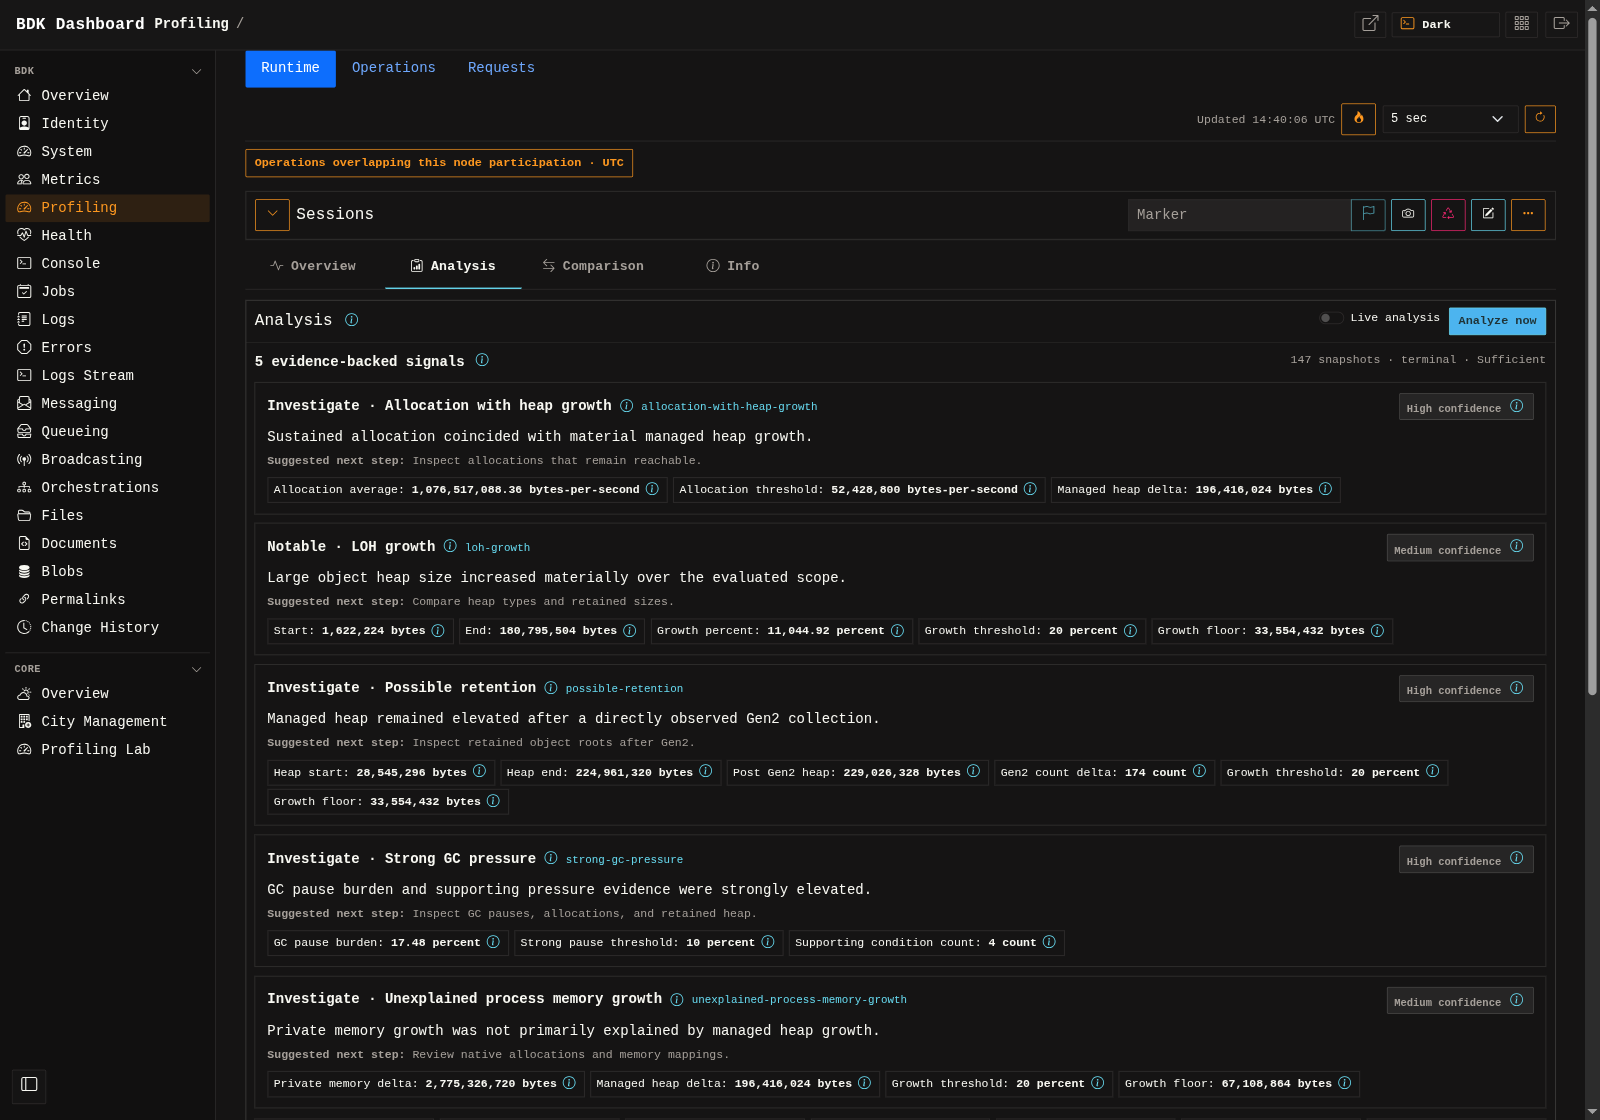
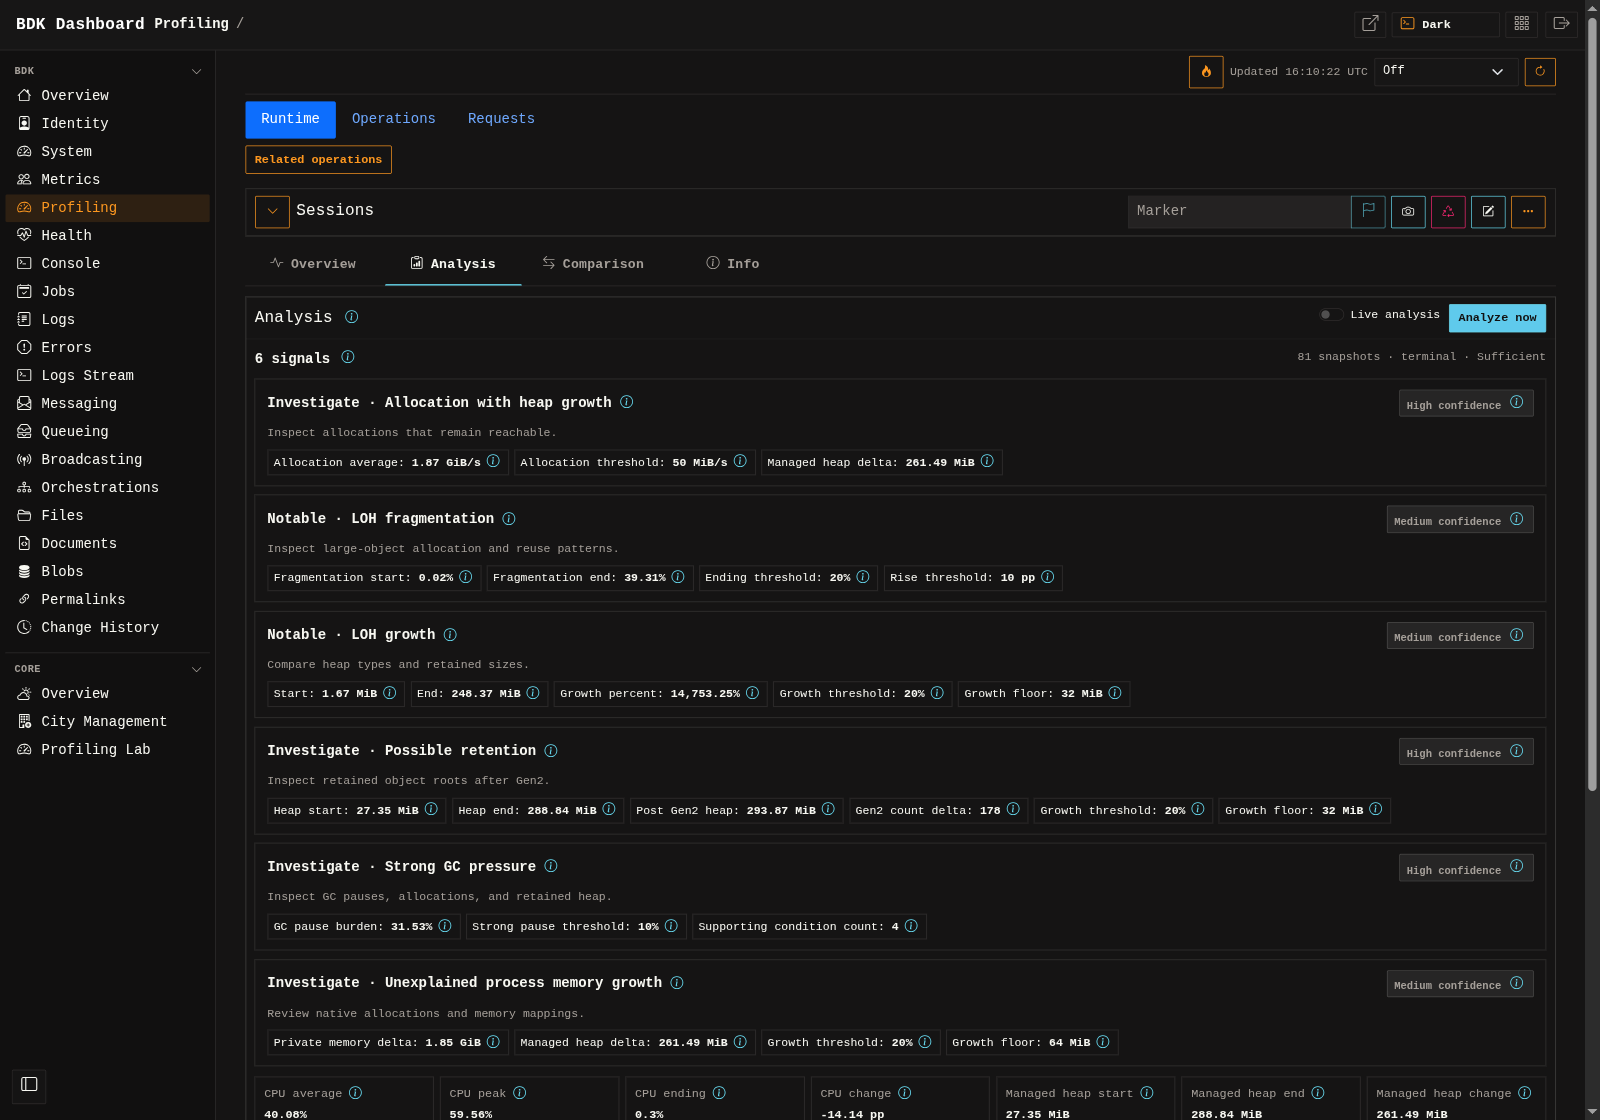
feat(profiling): refine dashboard controls
Align refresh controls with the dashboard toolbar and add UTC date/time
pickers, linked and copyable correlation IDs, and compact segment timing
columns with accessible help. Hide process IDs and reduce repeated text.

Arrange runtime overlays in responsive charts, format analysis values in
readable units, and regenerate six dashboard screenshots and the guide.

Validated the build, 158 profiling/dashboard tests, browser interaction
and responsive checks, six image links, and the strict MkDocs build.

diff --git a/tests/Presentation.UnitTests/Web/Profiling/OperationProfilingDashboardTests.cs b/tests/Presentation.UnitTests/Web/Profiling/OperationProfilingDashboardTests.cs
@@ -41,12 +41,12 @@ public sealed class OperationProfilingDashboardTests
         var content = await client.GetStringAsync("/admin/profiling/requests/content" + parameters);
         var groups = await client.GetFromJsonAsync<OperationProfilingGroupPage>("/admin/profiling/operations/api/groups?kind=HttpRequest&view=" + mode);
 
-        page.ShouldContain("2 retained matching executions");
-        content.ShouldContain("2 retained matching executions");
+        page.ShouldContain("title=\"Retained executions matching this group\">2</span>");
+        content.ShouldContain("title=\"Retained executions matching this group\">2</span>");
         groups.TotalOperationCount.ShouldBe(2);
         groups.TotalGroupCount.ShouldBe(1);
         groups.Groups.Single().Count.ShouldBe(2);
-        content.ShouldContain("Exclusive wall-time share");
+        content.ShouldContain("Percent of operation duration");
         content.ShouldContain("UTC");
         page.ShouldContain("/admin/profiling/operations");
         (await client.GetAsync("/admin/profiling/requests/" + service)).StatusCode.ShouldBe(HttpStatusCode.NotFound);
@@ -151,7 +151,8 @@ public sealed class OperationProfilingDashboardTests
     public async Task Detail_WithNestedSegments_EncodesMetadataAndShowsAggregates()
     {
         await using var app = await CreateAsync();
-        var id = Capture(app, "catalog", OperationProfilingKind.Service);
+        const string correlationId = "lookup&<script>\"quoted\"</script>";
+        var id = Capture(app, "catalog", OperationProfilingKind.Service, correlationId);
         await app.Services.GetRequiredService<OperationProfilingWriterService>().TickAsync();
         var html = await app.GetTestClient().GetStringAsync("/admin/profiling/operations/" + id);
         html.ShouldContain("&lt;script&gt;");
@@ -160,6 +161,10 @@ public sealed class OperationProfilingDashboardTests
         html.ShouldContain("Compute");
         html.ShouldContain("invocations");
         html.ShouldContain("UTC");
+        html.ShouldContain("/admin/logentries?correlationId=" + Uri.EscapeDataString(correlationId));
+        html.ShouldContain("data-profiling-copy=\"lookup&amp;&lt;script&gt;&quot;quoted&quot;&lt;/script&gt;\"");
+        html.ShouldNotContain(correlationId);
+        html.ShouldNotContain("data-runtime-overlay=");
     }
 
     /// <summary>One occupied query budget produces the same Busy status in both render paths and JSON.</summary>
@@ -208,10 +213,10 @@ public sealed class OperationProfilingDashboardTests
         comparison.Candidate.Count.ShouldBe(1);
     }
 
-    private static Guid Capture(WebApplication app, string key, OperationProfilingKind kind)
+    private static Guid Capture(WebApplication app, string key, OperationProfilingKind kind, string correlationId = null)
     {
         var profiler = app.Services.GetRequiredService<IOperationProfiler>();
-        using var operation = profiler.BeginOperation(key, kind);
+        using var operation = profiler.BeginOperation(new OperationProfilingStartRequest { Key = key, Kind = kind.ToString(), CorrelationId = correlationId });
         operation.SetDimension("category", "<script>metadata</script>");
         if (kind == OperationProfilingKind.HttpRequest) { operation.SetHttpMetadata(new() { Method = "GET", StatusCode = 200 }); }
 

diff --git a/docs/features-profiling.md b/docs/features-profiling.md
@@ -380,7 +380,7 @@ The Overview charts align memory, CPU, allocation and GC observations on a UTC t
 
 [![Runtime Analysis with evidence-backed allocation, heap-growth, retention, and GC-pressure signals](assets/dashboard/profiling/runtime-analysis.png)](assets/dashboard/profiling/runtime-analysis.png)
 
-Analysis shows each signal's confidence, supporting measurements and suggested next step. Read the sampling-quality summary alongside the signals before deciding what to investigate.
+Analysis shows each signal's confidence, supporting measurements and suggested next step. Byte values use readable units; information icons retain the recorded value and explain each metric. Read the sampling-quality summary alongside the signals before deciding what to investigate.
 
 ### Dashboard usage guide
 
@@ -399,7 +399,7 @@ Session and node selection remain visible above the tabs. Metadata is viewed and
 
 ### Optional local stress workload
 
-The flame action immediately left of the refresh interval starts the default stress workload and returns without blocking the dashboard request. It uses dedicated CPU workers, sustains short-lived and large-object allocations, retains a bounded 32–128 MiB based on available memory, and forces one full GC while retained objects remain reachable. The complete background workload is recorded as a named `Profiling stress test` segment so its duration is visible as a labeled range on both charts. A second run is rejected until the current 30-second run finishes. The workload affects only the process hosting the dashboard and stops during application shutdown.
+The flame action in the top toolbar starts the default stress workload and returns without blocking the dashboard request. It uses dedicated CPU workers, sustains short-lived and large-object allocations, retains a bounded 32–128 MiB based on available memory, and forces one full GC while retained objects remain reachable. The complete background workload is recorded as a named `Profiling stress test` segment so its duration is visible as a labeled range on both charts. A second run is rejected until the current 30-second run finishes. The workload affects only the process hosting the dashboard and stops during application shutdown.
 
 Application code can reuse `IRuntimeProfilingStressService` with a `RuntimeProfilingStressRequest` to select the duration, CPU-worker count, and retained-memory size for one run. `RuntimeProfilingStressRequest.Default` provides the same adaptive 30-second settings used by the dashboard; the dashboard intentionally exposes no editable stress profile.
 
@@ -425,25 +425,29 @@ Use By count to rank retained groups, Slow to inspect the longest executions, or
 
 [![Operations grouped by logical key, kind, and a typed dimension, with retained counts and a segment timing tooltip](assets/dashboard/profiling/operations.png)](assets/dashboard/profiling/operations.png)
 
-Rows show the executing node, root outcome, duration and exclusive wall-time share. Hover or focus a bar bucket to see its duration and percentage. A completed root can contain failed segments; the list flags those separately.
+Rows show the executing node, root outcome, duration and exclusive wall-time share. Hover or focus a bar bucket to see its duration and percentage. A completed root can contain failed segments; the list flags those separately. The summary cards show matching executions, groups, queued records and dropped records. Expand **Capture health** for persistence and sampling details.
+
+Use the **From UTC** and **To UTC** date/time pickers to bound the selection. Their values always represent UTC, regardless of the browser's timezone. Node names and keys identify where work ran. Correlation IDs link to filtered logs; the adjacent copy action copies the complete ID.
 
 #### Slow HTTP requests
 
-Requests fixes the execution kind to `HttpRequest` and adds the method, status, observed response bytes and sampling policy. Select an execution ID, or paste the response's `X-Request-Profiling-Id` into Find exact ID, to open its retained details.
+Requests fixes the execution kind to `HttpRequest` and adds the method, status and observed response bytes. Sampling details are available from the information icon. Select an execution ID, or paste the response's `X-Request-Profiling-Id` into **Diagnostics ID** in the top toolbar and select the search action, to open its retained details.
 
 [![Requests in Slow mode with HTTP status, response bytes, sampling policy, durations, and segment wall-time bars](assets/dashboard/profiling/requests.png)](assets/dashboard/profiling/requests.png)
 
-Auto refresh updates persisted history at the selected interval. Pending records appear after the periodic writer persists them; refreshing the page does not force a flush.
+The top toolbar provides manual refresh and the auto-refresh interval. Refresh updates persisted history while preserving open groups and details. Pending records appear after the periodic writer persists them; refreshing the page does not force a flush.
 
 #### Repeated and nested segments
 
 Operation details combine typed dimensions and measurements with the aggregated segment tree. Repeated invocations share a row at the same complete path. Nested paths keep parent and child work distinct, with invocation counts, outcomes, total and self durations, weighted means, and minimum and maximum durations.
 
+**Total** sums every invocation's elapsed time, including child work. **Self** excludes the time covered by its children, subtracting overlapping child intervals once. Nested or parallel totals can exceed the operation's duration; the wall-time bar shows the exclusive duration shares instead. Indented rows show segment names, with the full path in a tooltip. Hover or focus the information icons for timing definitions, and expand **Metadata** or a segment's **Details** for measurements and failure information.
+
 [![Operation details with typed metadata and repeated, nested segment statistics, including successful and failed invocations](assets/dashboard/profiling/operation-details.png)](assets/dashboard/profiling/operation-details.png)
 
 #### Runtime context around one operation
 
-The Independent Runtime evidence section shows matching process snapshots around the operation's observed UTC interval. The shaded interval identifies the operation; surrounding samples, collection windows and gaps remain visible. Open Runtime for this node and interval to inspect the wider session.
+The **Runtime overlay** section shows matching process snapshots around the operation's observed UTC interval. The shaded interval identifies the operation; surrounding samples, collection windows and gaps remain visible. Select **Open Runtime** to inspect the wider session for the same node and interval. Expand **Sample coverage** for sampling gaps and collection windows.
 
 [![Runtime overlay with process CPU, memory, allocation, and GC observations around a selected operation interval](assets/dashboard/profiling/runtime-overlay.png)](assets/dashboard/profiling/runtime-overlay.png)
 
